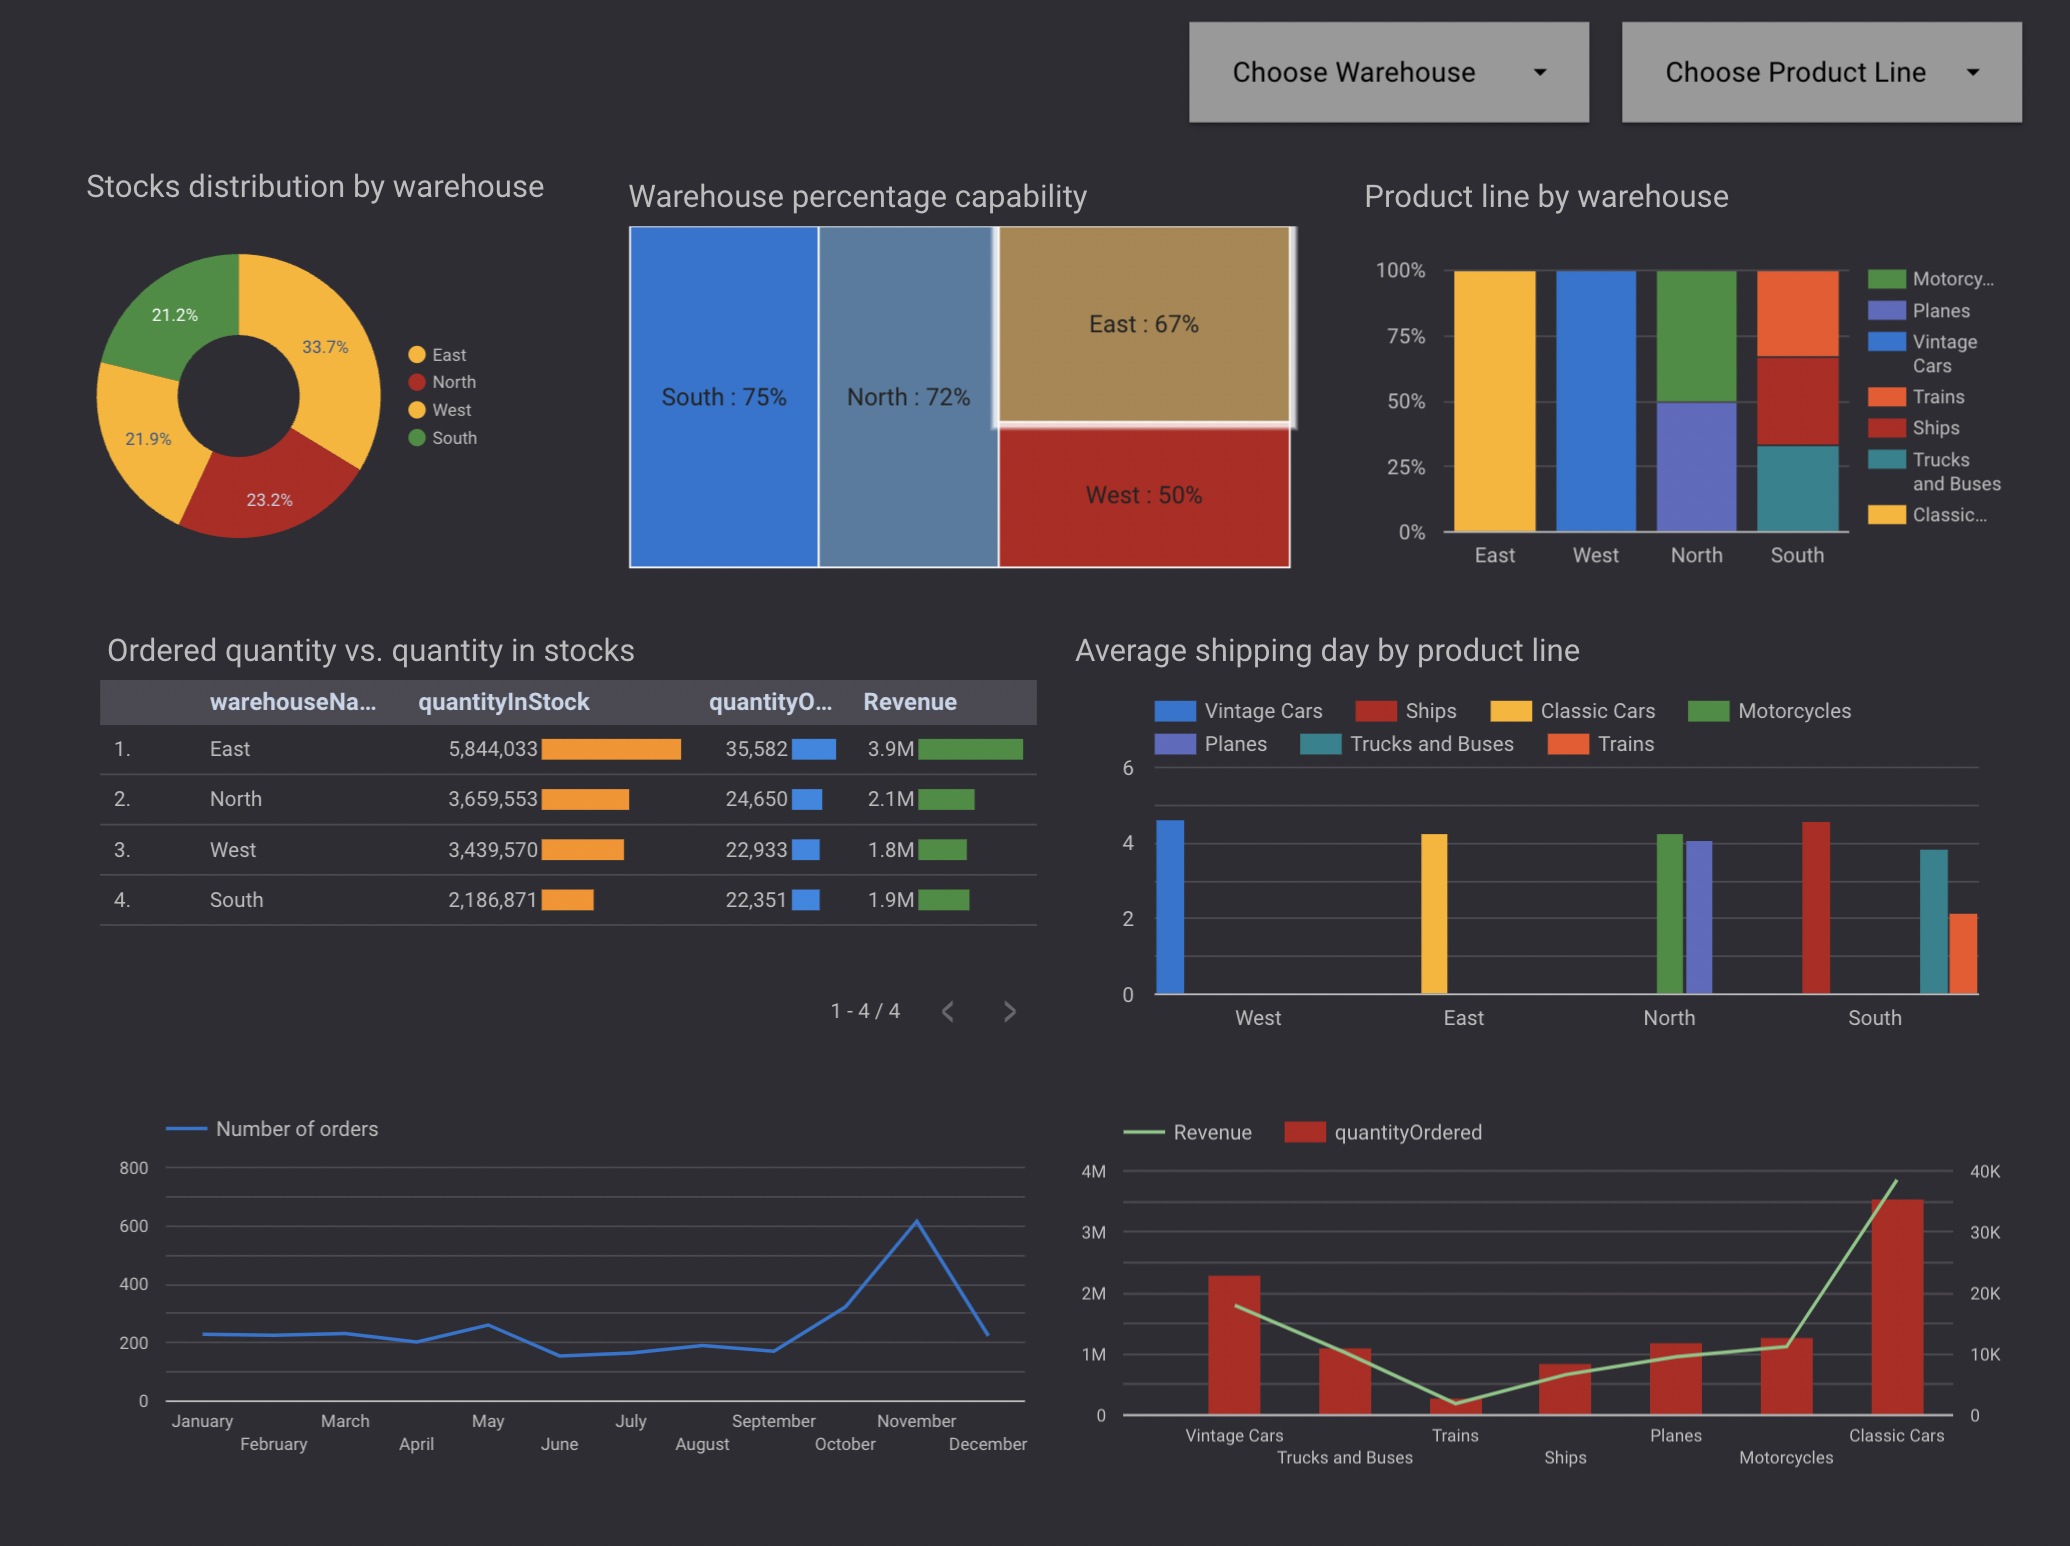
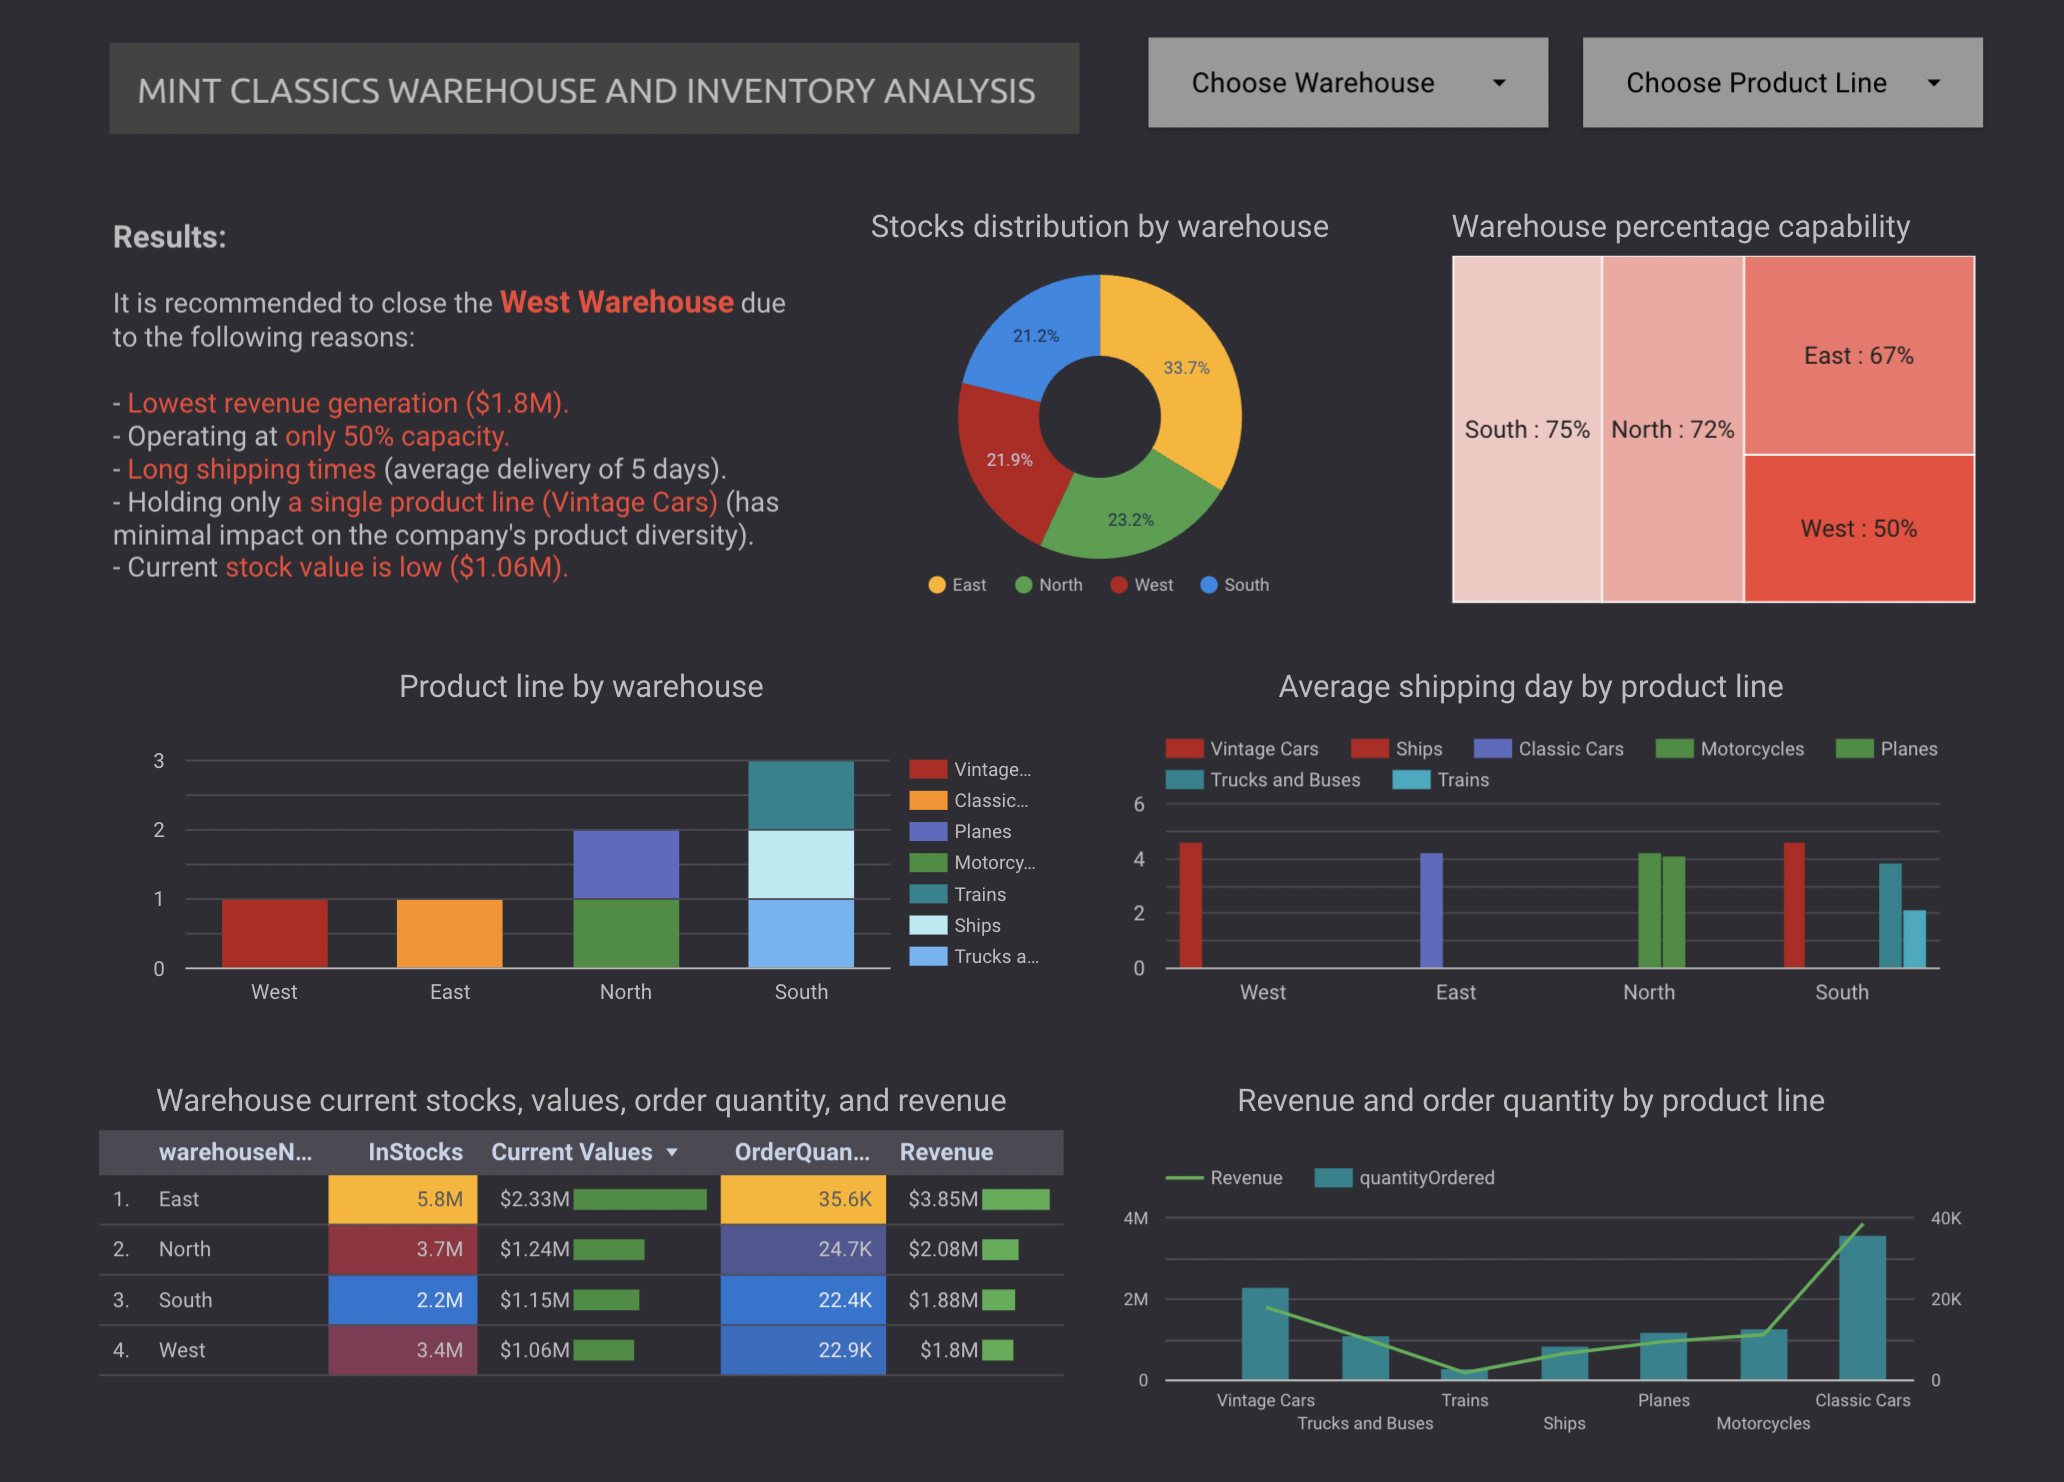
UPDATE README

diff --git a/README.md b/README.md
@@ -47,7 +47,7 @@ The companies main database structure as seen below consists of nine tables: war
 
 __Entity Relationship Diagram here__
 
-  <img src="./img/image-18.png" alt="My Image" style="width: 600px; height: auto;">
+  <img src="./img/erd.png" alt="My Image" style="width: 600px; height: auto;">
 
   **Relationship explaination:**
   
@@ -63,7 +63,7 @@ __Entity Relationship Diagram here__
 
 To optimzie warehouse and inventory mangement, we should **close the West Warehouse** due to its lowest sale volume, revenue, and current stock value among others, along with long shipping times (5 days)and it only has a single product line (vintage cars). While the South Warehouse holds slower-moving products and is less operationally efficient than the East and North, it offers flexible delivery times, stores more product lines (Trains, Ships, Trucks and Buses) than the West, and generates higher revenue. Focusing on the East and North Warehouses, which have high sales, profitability, and underutilized capacity, making them key assets for continued growth and improve operations.
 
-  ![alt text](img/dashboard.png)
+  ![alt text](img/image-2.png)
 
 # Insights Deep Dive
 
@@ -77,8 +77,8 @@ To optimzie warehouse and inventory mangement, we should **close the West Wareho
   
 * **Main insight 2.** None of the four warehouses are operating at full capacity, with the West warehouse running at just 50%, the lowest among others.
 
-  ![alt text](img/image-16.png)
-  ![alt text](img/image-9.png)
+  ![alt text](img/image-3.png)
+  ![alt text](img/image-4.png)
 
 ### Category 2: How are inventory numbers related to sales figures? Do the inventory counts seem appropriate for each item?
 
@@ -91,7 +91,7 @@ To optimzie warehouse and inventory mangement, we should **close the West Wareho
   
 * **Main insight 3.** There is a significant excess inventory compared to actual sales. The average sales percentage is only 0.7% of the total stock.
 
-  ![alt text](img/image-12.png)
+  ![alt text](img/image-5.png)
 
 
 ### Category 3: What is the average shipping time for each product line?
@@ -101,7 +101,7 @@ To optimzie warehouse and inventory mangement, we should **close the West Wareho
     - Trains: Fastest shipping time (2 days).
     -  Ships and Vintage Cars: Slowest shipping times (average 5 days).
 
-  ![alt text](img/image-13.png)
+  ![alt text](img/image-6.png)
 
 
 ### Category 4: Are we storing items that are not moving? Are any items candidates for being dropped from the product line?
